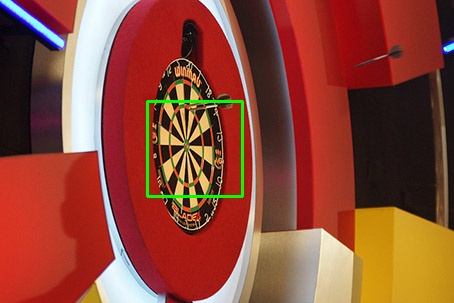
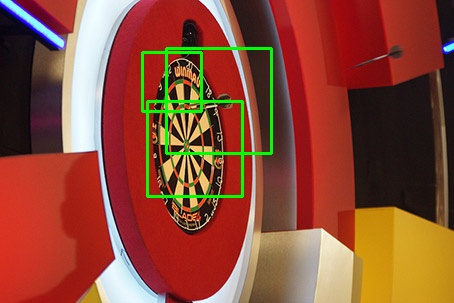
tweak paramter so that we only have false positives

Changed region(s): [[0.3084, 0.1485, 0.6167, 0.5347]]

diff --git a/ipcv_assignment_1/util.cpp b/ipcv_assignment_1/util.cpp
@@ -64,7 +64,7 @@ vector<Rect> line_intersection(const Mat &src, vector<Rect> &circles) {
 //        waitKey(0);
 
         // detect lines in a sub-region
-        vector<Vec2f> lines = hough_line(sub, it->width / 2.5, 15);
+        vector<Vec2f> lines = hough_line(sub, it->width / 2.33, 12);
 
         if (lines.size() < MIN_LINES) { // only one line detected, it's not a dartboard
             continue;

diff --git a/ipcv_assignment_1/hough.cpp b/ipcv_assignment_1/hough.cpp
@@ -235,7 +235,7 @@ vector<Rect> hough_circle(const Mat &src, int threshold, int minRadius, int maxR
     return det_circles;
 }
 
-vector<Vec2f> hough_line(const Mat &src, int threshold, int delta) {
+vector<Vec2f> hough_line(const Mat &src, float threshold, int delta) {
     Mat gray_image;
     cvtColor(src, gray_image, CV_BGR2GRAY);
 

diff --git a/ipcv_assignment_1/header/hough.h b/ipcv_assignment_1/header/hough.h
@@ -17,7 +17,7 @@ Mat getXKernel();
 
 int ***allocate3DArray(int x, int y, int z);
 
-vector<Vec2f> hough_line(const Mat &src, int threshold, int delta);
+vector<Vec2f> hough_line(const Mat &src, float threshold, int delta);
 
 vector<Rect> hough_circle(const Mat &src, int threshold, int minRadius, int maxRadius);
 
